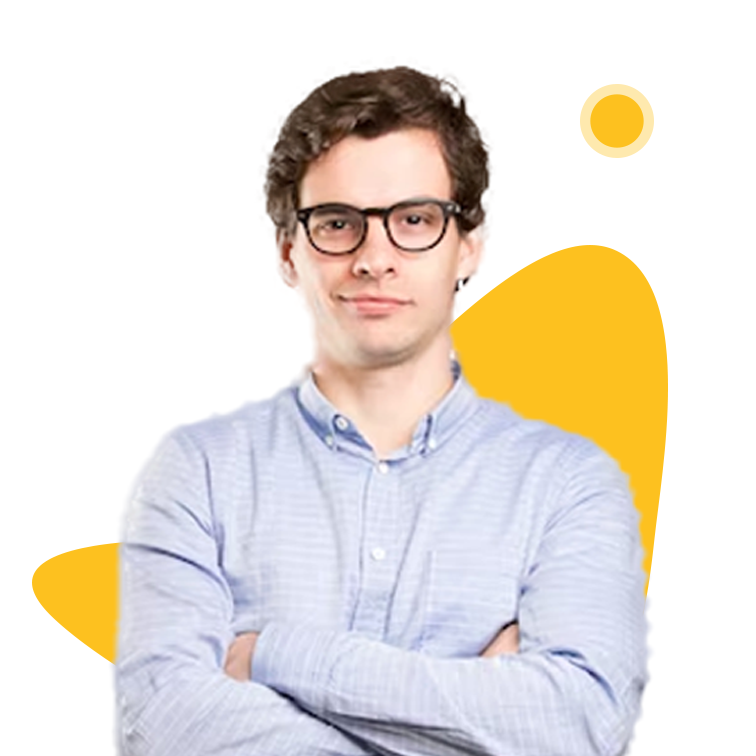
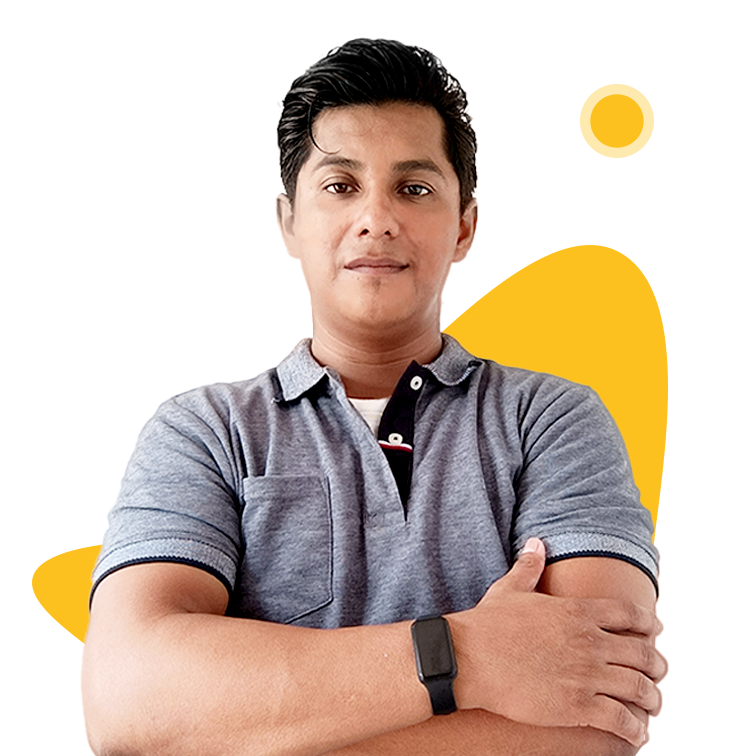
style: reformat code
reformat code and replace assets

• avatar • reformat code

diff --git a/src/app/contact.tsx b/src/app/contact.tsx
@@ -1,9 +1,9 @@
 'use client';
 import clsx from 'clsx';
 import React from 'react';
-import { ubuntu } from '../ui/fonts';
-import Form from '../ui/form';
-import FadeAnimation from '../ui/fadeAnimation';
+import { ubuntu } from './ui/fonts';
+import FadeAnimation from './ui/fadeAnimation';
+import Form from './ui/form';
 
 const Contact = () => {
   return (

diff --git a/src/app/page.tsx b/src/app/page.tsx
@@ -1,4 +1,4 @@
-import Contact from './_contact/contact';
+import Contact from './contact';
 import Projects from './projects';
 import About from './about';
 import Home from './home';
